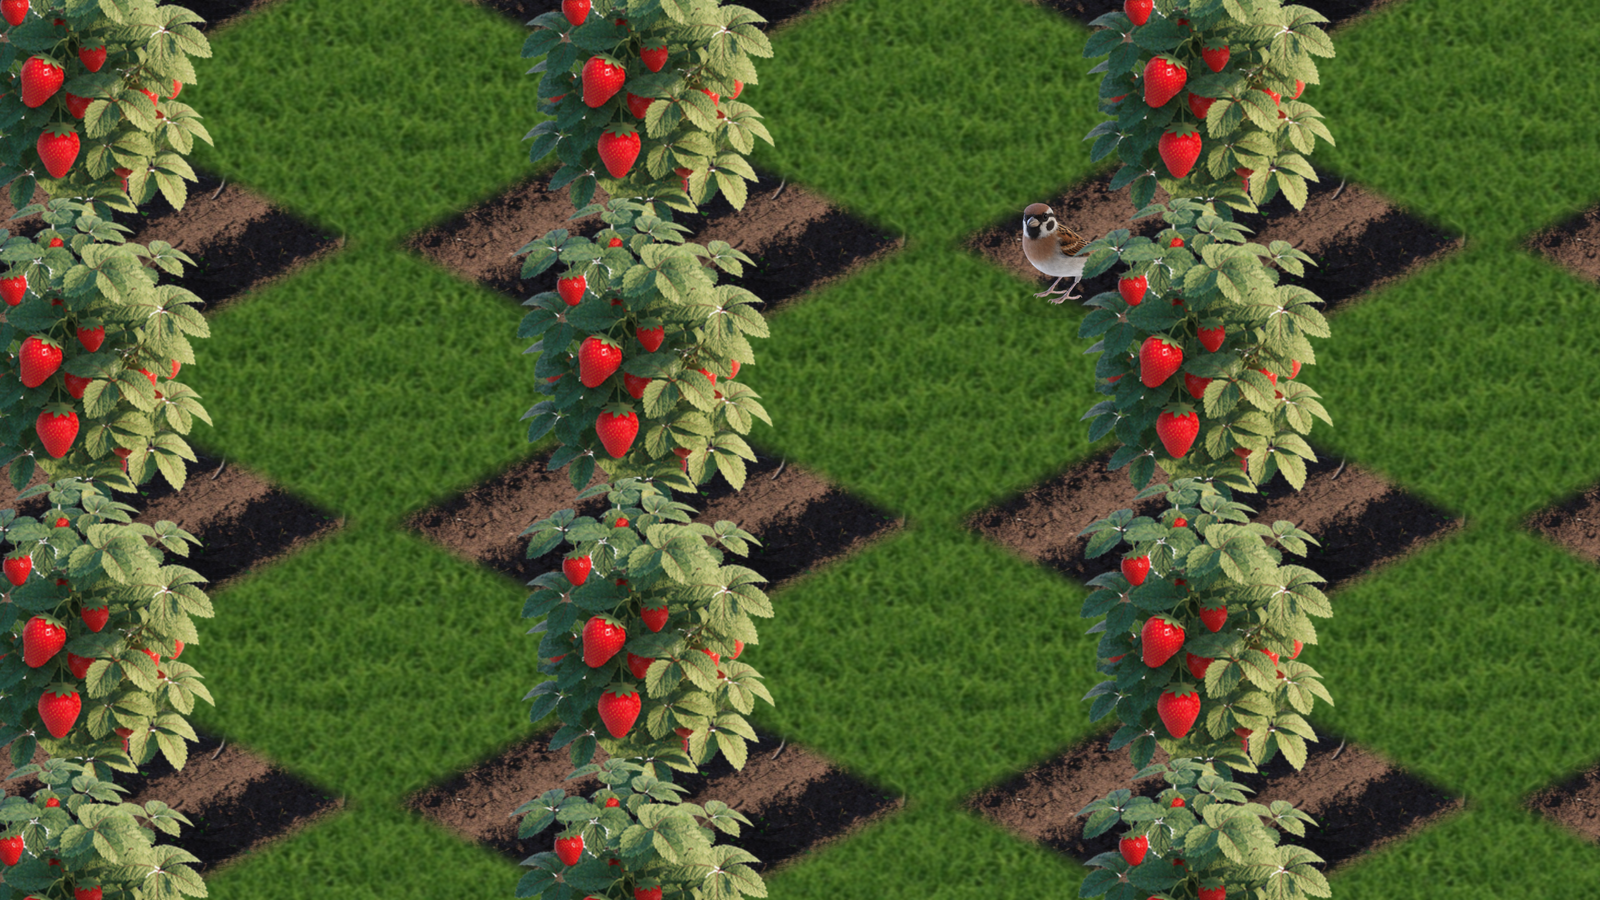
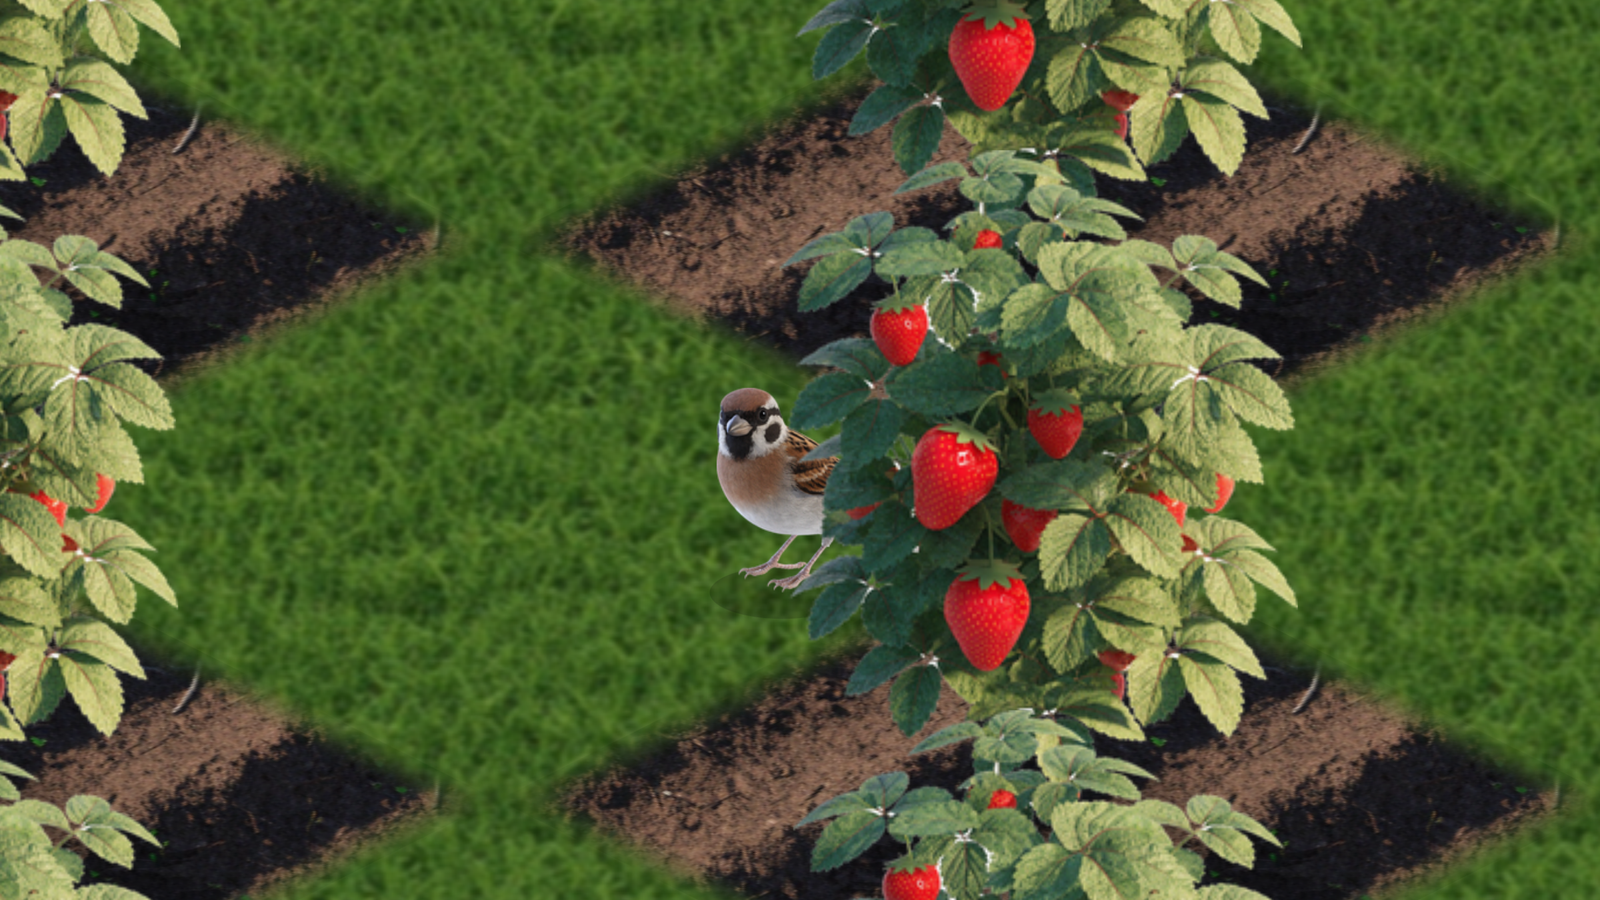
宣伝素材 X-012 を撮り直し：ことりを中心に約 2 倍に寄った構図（直す前はいちごの株の上に重なって見え、直した後は葉の奥に半分隠れる）。画面を 4800×2700・840dpi にして同じ範囲を 2 倍の細かさで撮り、ことりのまわりの半分を切り出す（庭の拡大は 2.5 倍が上限のため）。直す前は前回と同じく 9fb5fc1 の 1 つ前のビルド。promo_burst.py に --display・--density、切り出しは promo_cut.py

diff --git a/tools/promo_burst.py b/tools/promo_burst.py
@@ -4,8 +4,9 @@ timed (where a visitor stands), and a sheet of them all to pick from. See docs/p
     python tools/promo_burst.py --garden birdcrops --view 2.6 5 4.5 0 --count 30 --gap 0.5 \
         --out app/build/promo/bird -- --es creatures bird --es bird 5,4
 
-Each picture is kept at full size (2400x1350) as bNN.png; sheet.jpg has them all, numbered. The
-chosen one is scaled to 1600x900 by hand (PIL), like the others.
+Each picture is kept at full size (the display's, 2400x1350 unless --display) as bNN.png; sheet.jpg
+has them all, numbered. The chosen one is cut (around the bird for X-012) and scaled to 1600x900
+with promo_crop.py-style PIL by hand, like the others (docs/promo/README.md).
 """
 
 from __future__ import annotations
@@ -29,6 +30,11 @@ def main() -> int:
     parser.add_argument("--view", nargs=4, type=float, metavar=("SCALE", "X", "Y", "LIFT"), default=[0.3, 5, 5, 0])
     parser.add_argument("--count", type=int, default=24)
     parser.add_argument("--gap", type=float, default=1.0, help="seconds between pictures")
+    parser.add_argument("--display", default="2400x1350",
+                        help="the display while taking them; a larger one (4800x2700) leaves room to cut a closer picture out")
+    parser.add_argument("--density", type=int, default=0,
+                        help="the display's dpi while taking them (840 with 4800x2700: the same view, twice as fine; "
+                             "the garden zooms no further than GardenCamera.MAX_SCALE)")
     parser.add_argument("--out", default=str(pc.ROOT / "app/build/promo/burst"))
     parser.add_argument("extras", nargs="*", help="more for the receiver, after --")
     args = parser.parse_args()
@@ -39,8 +45,13 @@ def main() -> int:
     if not args.no_load:
         pc.open_showcase(device, install=False, load=("--es", "garden", args.garden) if args.garden else ())
     scale, x, y, lift = args.view
-    view = pc.View(scale, cell=(x, y), lift=lift)
-    device.display(pc.WIDE_SIZE)
+    # The pan is in pixels: as many more as the display is denser.
+    fine = args.density / 420 if args.density else 1.0
+    view = pc.View(scale, cell=(x, y), lift=lift, pixels=fine)
+    width, height = (int(v) for v in args.display.split("x"))
+    device.display((width, height))
+    if args.density:
+        device.shell("wm", "density", str(args.density))
     time.sleep(3)
     # The plain look first, so that the window has turned before anything is called.
     pc.set_look(device, pc.Look(), view, settle=7)
@@ -50,7 +61,7 @@ def main() -> int:
         time.sleep(args.gap)
         path = out / f"b{i:02d}.png"
         device.screencap(path)
-        thumbs.append(Image.open(path).convert("RGB").resize((480, 270)))
+        thumbs.append(Image.open(path).convert("RGB").resize((480, round(480 * height / width))))
     cols = 6
     rows = (len(thumbs) + cols - 1) // cols
     sheet = Image.new("RGB", (cols * 484, rows * 290), (30, 30, 30))
@@ -60,6 +71,9 @@ def main() -> int:
         sheet.paste(thumb, (left, top + 18))
         draw.text((left + 4, top + 2), str(i), fill=(255, 255, 0))
     sheet.save(out / "sheet.jpg", quality=80)
+    device.display(None)
+    if args.density:
+        device.shell("wm", "density", "reset")
     print("sheet:", out / "sheet.jpg")
     return 0
 

diff --git a/tools/promo_cut.py b/tools/promo_cut.py
@@ -1,0 +1,50 @@
+"""Cuts a closer picture out of one taken by promo_burst.py on a large display: half its width and
+height, round the visitor, scaled to 1600x900 (docs/promo/2026-11, X-012). The visitor is found by
+what differs from a picture of the same run with no one in it.
+
+    python tools/promo_cut.py app/build/promo/bird_before 5 --empty 20 --near 3650 450 \
+        --out docs/promo/2026-11/X-012_bird_before_16x9.png
+"""
+
+from __future__ import annotations
+
+import argparse
+import sys
+
+import numpy as np
+from PIL import Image
+
+
+def visitor_at(picture: Image.Image, empty: Image.Image, near: tuple[int, int], reach: int = 500) -> tuple[int, int]:
+    """The middle of what differs from [empty] within [reach] of [near]: the visitor's body."""
+    a = np.asarray(picture.convert("RGB")).astype(int)
+    b = np.asarray(empty.convert("RGB")).astype(int)
+    changed = np.abs(a - b).sum(axis=2) > 120
+    x0, y0 = max(near[0] - reach, 0), max(near[1] - reach, 0)
+    ys, xs = np.nonzero(changed[y0:near[1] + reach, x0:near[0] + reach])
+    if len(xs) == 0:
+        raise SystemExit("nothing differs there")
+    return int(np.median(xs)) + x0, int(np.median(ys)) + y0
+
+
+def main() -> int:
+    parser = argparse.ArgumentParser(description=__doc__, formatter_class=argparse.RawDescriptionHelpFormatter)
+    parser.add_argument("dir")
+    parser.add_argument("index", type=int)
+    parser.add_argument("--empty", type=int, required=True, help="a picture of the run with no visitor")
+    parser.add_argument("--near", type=int, nargs=2, required=True, help="about where the visitor is (x y, full size)")
+    parser.add_argument("--out", required=True)
+    args = parser.parse_args()
+    picture = Image.open(f"{args.dir}/b{args.index:02d}.png").convert("RGB")
+    cx, cy = visitor_at(picture, Image.open(f"{args.dir}/b{args.empty:02d}.png"), tuple(args.near))
+    width, height = picture.size
+    w, h = width // 2, height // 2
+    left = min(max(cx - w // 2, 0), width - w)
+    top = min(max(cy - h // 2, 0), height - h)
+    picture.crop((left, top, left + w, top + h)).resize((1600, 900), Image.LANCZOS).save(args.out, optimize=True)
+    print("visitor at", (cx, cy), "cut from", (left, top))
+    return 0
+
+
+if __name__ == "__main__":
+    sys.exit(main())

diff --git a/tools/promo_capture.py b/tools/promo_capture.py
@@ -52,9 +52,12 @@ class View:
     scale: float
     cell: tuple[float, float] = ((GARDEN_SIZE - 1) / 2, (GARDEN_SIZE - 1) / 2)
     lift: float = 0.0
+    # How many device pixels to one at 420 dpi (2 on a display set to 840 dpi).
+    pixels: float = 1.0
 
     def extras(self) -> list[str]:
         px, py = pan_to(self.cell, self.scale, self.lift)
+        px, py = px * self.pixels, py * self.pixels
         return ["--ef", "scale", str(self.scale), "--ef", "pan_x", f"{px:.1f}", "--ef", "pan_y", f"{py:.1f}"]
 
 
